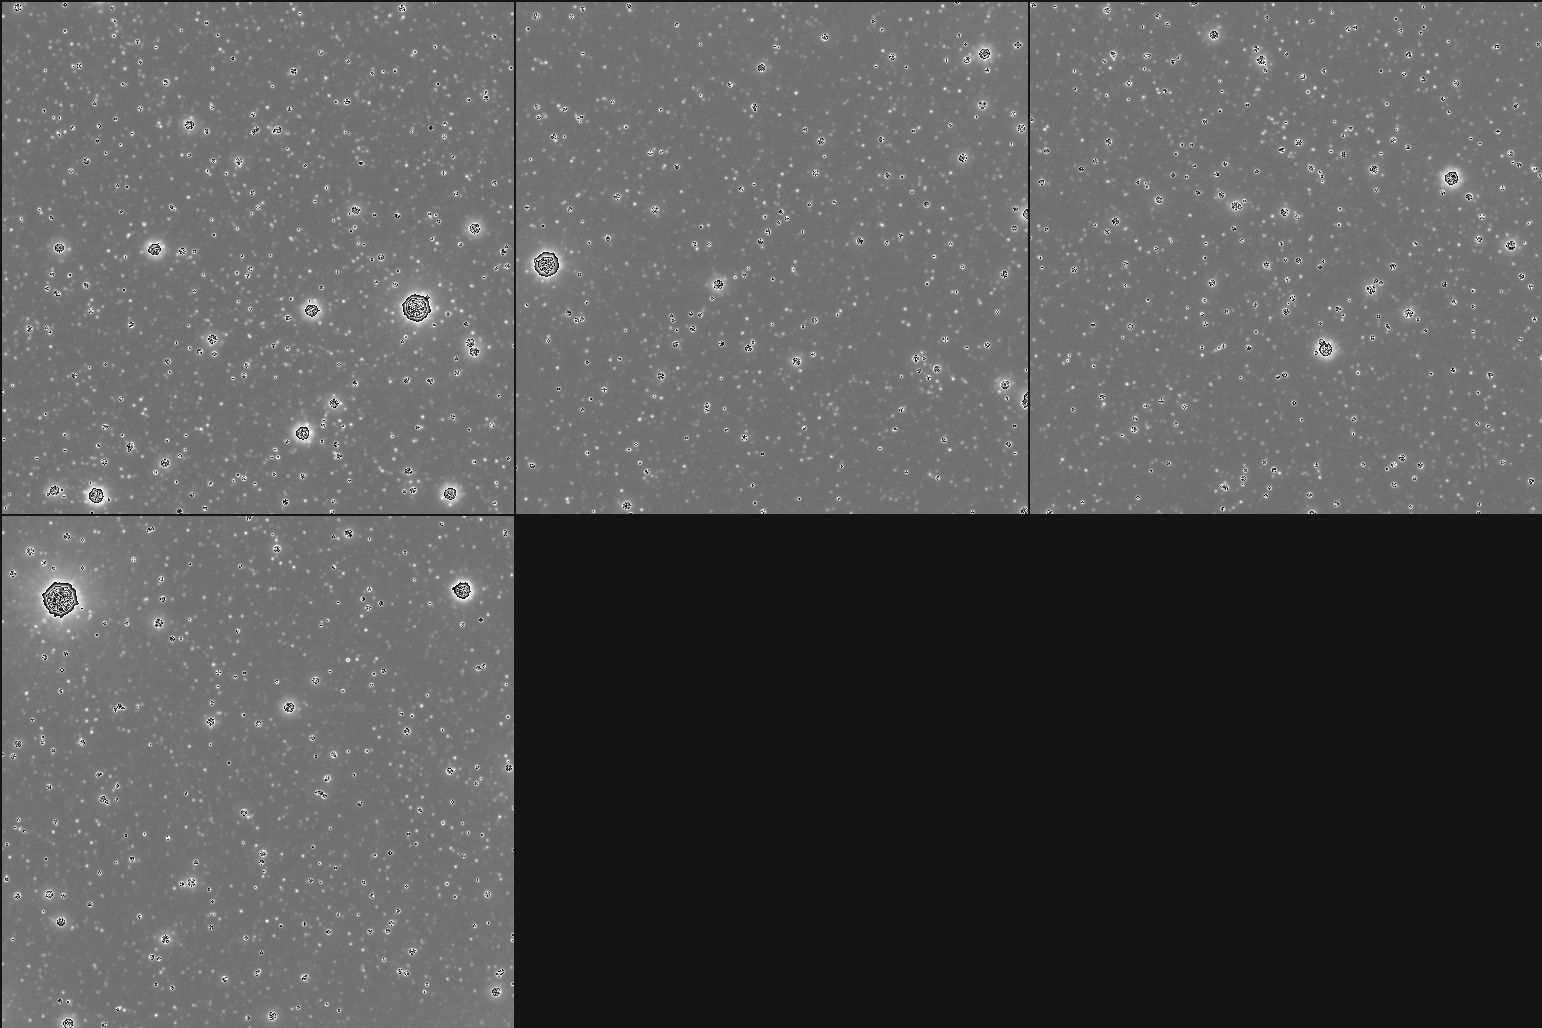
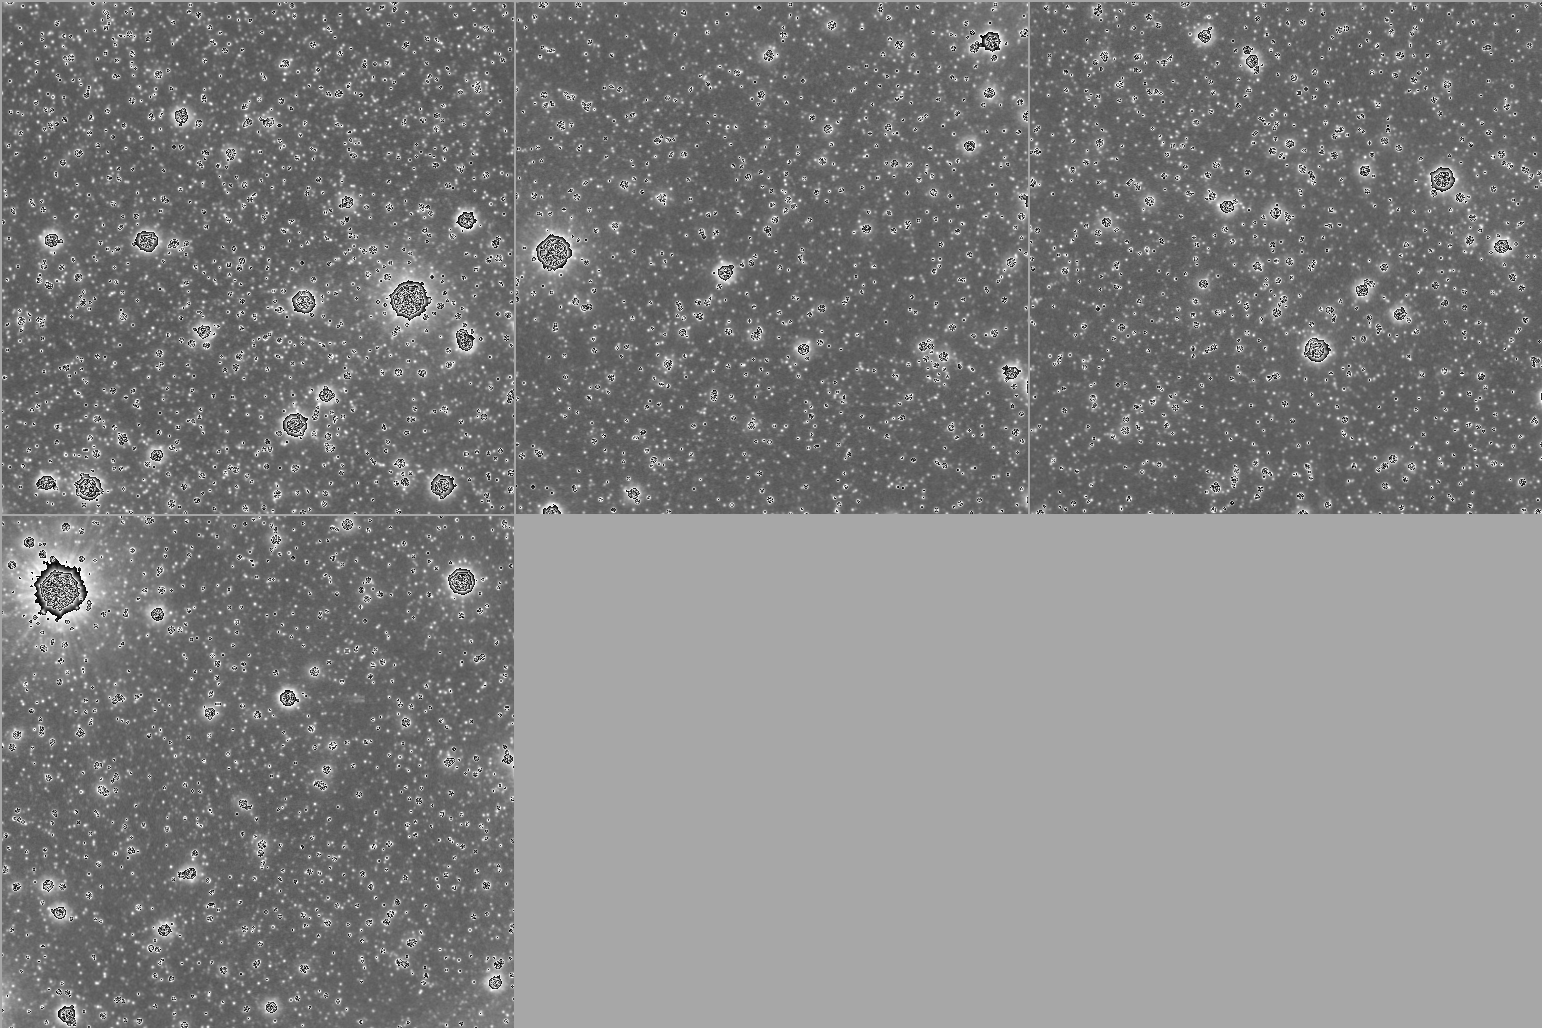
Tried normalizing with sqrt, log, maxmindiv, and no normalization

diff --git a/conv_vae_g.py b/conv_vae_g.py
@@ -130,23 +130,23 @@ class VAE(nn.Module):
         
     def encode(self, x):
         out = self.relu(self.conv1(x))
-        # print("how fucking big is this 1 wtf",out.size()) # 8, 64, 64
+        # print("how big is this 1 ",out.size()) # 8, 64, 64
         out = self.relu(self.conv2(out))
-        # print("how fucking big is this 2 wtf",out.size()) # 16, 128, 128 
+        # print("how big is this 2 ",out.size()) # 16, 128, 128 
         out = self.relu(self.conv3(out))
-        # print("how fucking big is this 2 wtf",out.size())
+        # print("how big is this 2 ",out.size())
         out = self.conv4(out)
-        # print("how fucking big is this 3 wtf",out.size())
+        # print("how big is this 3 ",out.size())
         return out
 
     
     def decode(self, z):
         out = self.relu(self.deconv1(z))
-        # print("how fucking big is this 1 wtf",out.size())
+        # print("how big is this 1 ",out.size())
         out = self.relu(self.deconv2(out))
-        # print("how fucking big is this 2 wtf",out.size())
+        # print("how big is this 2 ",out.size())
         out = self.relu(self.deconv3(out))
-        # print("how fucking big is this 3 wtf",out.size())
+        # print("how big is this 3 ",out.size())
         out = self.deconv4(out)
         return out
 
@@ -182,19 +182,19 @@ def train(epoch):
     model.train()
     train_loss = 0
 
-    lossGraph = []
-    # for batch_idx, (data, _) in enumerate(train_loader):
-    maxs = []
-    mins = []
-    means = []
+    # lossGraph = []
+    # # for batch_idx, (data, _) in enumerate(train_loader):
+    # maxs = []
+    # mins = []
+    # means = []
 
     for batch_idx, data in enumerate(train_loader):
         data = data.float()
 
         #normalize test 
-        # data = (data-torch.mean(data))/torch.std(data)
+        data = (data-torch.mean(data))/torch.std(data)
 
-        data = (data + 2452.3423)/115955.53125
+        # data = torch.sqrt(data + 2453)
         # maxs.append(torch.max(data))
         # means.append(torch.mean(data))
         # mins.append(torch.min(data))
@@ -217,14 +217,14 @@ def train(epoch):
                 100. * batch_idx / len(train_loader),
                 loss.data[0] / len(data)))
 
-        lossGraph.append(loss.data[0] / len(data))
+        # lossGraph.append(loss.data[0] / len(data))
 
     print('====> Epoch: {} Average loss: {:.4f}'.format(
           epoch, train_loss / len(train_loader.dataset)))
 
-    print("MAX: " + str(max(maxs)))
-    print("MIN: ", min(mins))
-    print("MEANS: ", sum(means)/len(means))
+    # print("MAX: " + str(max(maxs)))
+    # print("MIN: ", min(mins))
+    # print("MEANS: ", sum(means)/len(means))
 
     # plt.plot(lossGraph)
     # plt.ylabel('loss')
@@ -232,17 +232,25 @@ def train(epoch):
     # plt.show()
 
     # print(data.data.cpu()[0][0].shape)
+
     tmp = "snapshots/better_auto/" + str(epoch) + "a.png"
-    plt.imsave(tmp, data.data.cpu()[0][0], cmap='gray')
+    dt = []
+    for x in range(len(data.data.cpu())):
+        dt.append(data.data.cpu()[x][0])
+        dt.append(torch.zeros(data.data.cpu()[x][0].shape[0],4))
+    xy = []
+    xy.append(torch.cat((dt), 1))
+    xy.append(torch.zeros(4, data.data.cpu()[0][0].shape[1]))
 
-    # print(output.data.cpu()[0][0].shape)
-    tmp = "snapshots/better_auto/" + str(epoch) + "b.png"
-    plt.imsave(tmp, output.data.cpu()[0][0], cmap='gray')
-    
-    save_image(torch.cat((data.data.cpu(), data.data.cpu(), data.data.cpu()),1), str(epoch)+'a.png',nrow=3)
-    save_image(torch.cat((output.data.cpu(), output.data.cpu(), output.data.cpu()),1), str(epoch)+'b.png',nrow=3)
+    dt = []
+    for x in range(len(output.data.cpu())):
+        dt.append(output.data.cpu()[x][0])
+        dt.append(torch.zeros(output.data.cpu()[x][0].shape[1],4))
 
-    # 
+    xy.append(torch.cat((dt), 1))
+
+    plt.imsave(tmp, torch.cat((xy), 0), cmap='gray')
+
 
 
 
